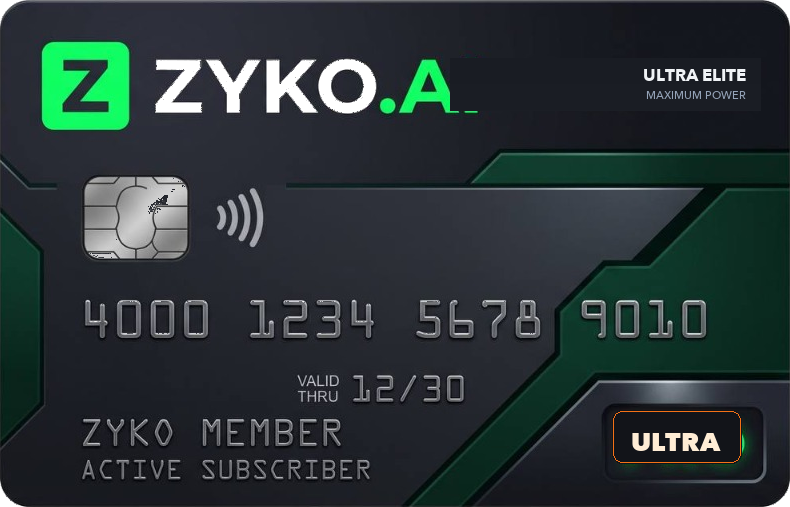
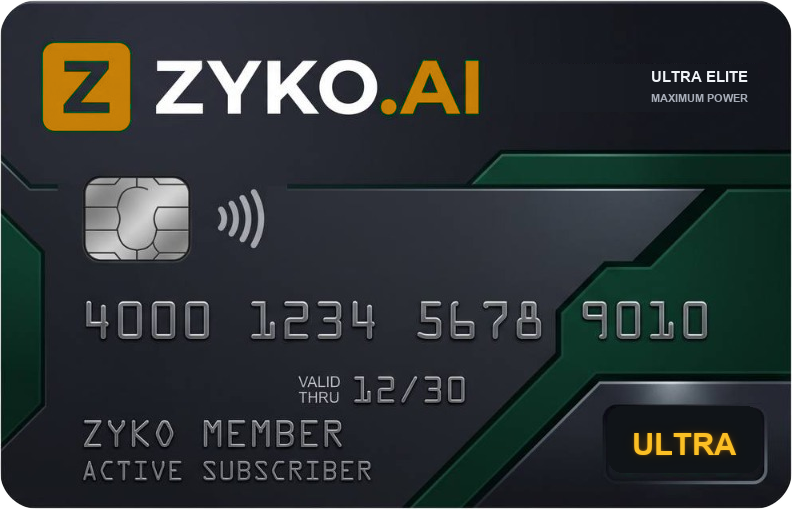
feat(stripe): add transparent cyberpunk virtual cards for all subscription tiers to Stripe Checkout

diff --git a/public/icons/plan_b_svgs.js b/public/icons/plan_b_svgs.js
@@ -1,0 +1,96 @@
+/**
+ * PLAN B: Premium Vector Duotone / Neon SVG Studio Icons (Linear / Vercel / Raycast style)
+ * Clean, lightweight, scalable, with emerald, amber, and violet gradients.
+ * Activated on user request "делай план б".
+ */
+const PLAN_B_STUDIO_ICONS = {
+  trends: `
+    <svg class="w-5 h-5" viewBox="0 0 24 24" fill="none">
+      <defs>
+        <linearGradient id="trend-grad" x1="0%" y1="0%" x2="100%" y2="100%">
+          <stop offset="0%" stop-color="#f59e0b"/>
+          <stop offset="100%" stop-color="#ef4444"/>
+        </linearGradient>
+      </defs>
+      <path d="M12 2c1.5 3.5 4 5.5 4 9 0 3.3-2.7 6-6 6s-6-2.7-6-6c0-3.5 2.5-5.5 4-9z" fill="url(#trend-grad)" fill-opacity="0.25" stroke="url(#trend-grad)" stroke-width="1.8" stroke-linecap="round" stroke-linejoin="round"/>
+      <path d="M12 11c.8 1.5 2 2.5 2 4a2 2 0 1 1-4 0c0-1.5 1.2-2.5 2-4z" fill="#f59e0b"/>
+    </svg>
+  `,
+  agents: `
+    <svg class="w-5 h-5" viewBox="0 0 24 24" fill="none">
+      <defs>
+        <linearGradient id="agent-grad" x1="0%" y1="0%" x2="100%" y2="100%">
+          <stop offset="0%" stop-color="#10b981"/>
+          <stop offset="100%" stop-color="#06b6d4"/>
+        </linearGradient>
+      </defs>
+      <circle cx="12" cy="12" r="8" stroke="url(#agent-grad)" stroke-width="1.8" stroke-dasharray="2 3"/>
+      <circle cx="12" cy="12" r="4" fill="url(#agent-grad)" fill-opacity="0.3" stroke="url(#agent-grad)" stroke-width="1.8"/>
+      <circle cx="12" cy="12" r="1.5" fill="#10b981"/>
+    </svg>
+  `,
+  text: `
+    <svg class="w-5 h-5" viewBox="0 0 24 24" fill="none">
+      <defs>
+        <linearGradient id="llm-grad" x1="0%" y1="0%" x2="100%" y2="100%">
+          <stop offset="0%" stop-color="#8b5cf6"/>
+          <stop offset="100%" stop-color="#3b82f6"/>
+        </linearGradient>
+      </defs>
+      <rect x="4" y="4" width="16" height="16" rx="4" stroke="url(#llm-grad)" stroke-width="1.8" fill="url(#llm-grad)" fill-opacity="0.2"/>
+      <path d="M9 9h6M9 12h6M9 15h3" stroke="#a78bfa" stroke-width="1.8" stroke-linecap="round"/>
+      <circle cx="17" cy="15" r="1" fill="#60a5fa"/>
+    </svg>
+  `,
+  image: `
+    <svg class="w-5 h-5" viewBox="0 0 24 24" fill="none">
+      <defs>
+        <linearGradient id="img-grad" x1="0%" y1="0%" x2="100%" y2="100%">
+          <stop offset="0%" stop-color="#06b6d4"/>
+          <stop offset="100%" stop-color="#10b981"/>
+        </linearGradient>
+      </defs>
+      <rect x="3" y="3" width="18" height="18" rx="4" stroke="url(#img-grad)" stroke-width="1.8" fill="url(#img-grad)" fill-opacity="0.15"/>
+      <circle cx="8.5" cy="8.5" r="2" fill="#06b6d4"/>
+      <path d="M21 16l-5.5-5.5-8.5 8.5" stroke="url(#img-grad)" stroke-width="1.8" stroke-linecap="round" stroke-linejoin="round"/>
+    </svg>
+  `,
+  video: `
+    <svg class="w-5 h-5" viewBox="0 0 24 24" fill="none">
+      <defs>
+        <linearGradient id="vid-grad" x1="0%" y1="0%" x2="100%" y2="100%">
+          <stop offset="0%" stop-color="#ec4899"/>
+          <stop offset="100%" stop-color="#8b5cf6"/>
+        </linearGradient>
+      </defs>
+      <rect x="3" y="4" width="18" height="16" rx="3" stroke="url(#vid-grad)" stroke-width="1.8" fill="url(#vid-grad)" fill-opacity="0.2"/>
+      <path d="M10 9l5 3-5 3V9z" fill="url(#vid-grad)"/>
+    </svg>
+  `,
+  audio: `
+    <svg class="w-5 h-5" viewBox="0 0 24 24" fill="none">
+      <defs>
+        <linearGradient id="aud-grad" x1="0%" y1="0%" x2="100%" y2="100%">
+          <stop offset="0%" stop-color="#10b981"/>
+          <stop offset="100%" stop-color="#34d399"/>
+        </linearGradient>
+      </defs>
+      <path d="M4 10v4M8 6v12M12 3v18M16 7v10M20 11v2" stroke="url(#aud-grad)" stroke-width="2" stroke-linecap="round"/>
+    </svg>
+  `,
+  toolkit: `
+    <svg class="w-5 h-5" viewBox="0 0 24 24" fill="none">
+      <defs>
+        <linearGradient id="tool-grad" x1="0%" y1="0%" x2="100%" y2="100%">
+          <stop offset="0%" stop-color="#f59e0b"/>
+          <stop offset="100%" stop-color="#10b981"/>
+        </linearGradient>
+      </defs>
+      <path d="M14.7 6.3a1 1 0 0 0 0 1.4l1.6 1.6a1 1 0 0 0 1.4 0l3.77-3.77a6 6 0 0 1-7.94 7.94l-6.91 6.91a2.12 2.12 0 0 1-3-3l6.91-6.91a6 6 0 0 1 7.94-7.94l-3.76 3.76z" stroke="url(#tool-grad)" stroke-width="1.8" stroke-linecap="round" stroke-linejoin="round" fill="url(#tool-grad)" fill-opacity="0.15"/>
+    </svg>
+  `
+};
+
+if (typeof window !== 'undefined') {
+  window.PLAN_B_STUDIO_ICONS = PLAN_B_STUDIO_ICONS;
+}

diff --git a/payments.py b/payments.py
@@ -96,6 +96,19 @@ async def create_stripe_checkout(user_id: int, user_email: str, plan_name: str, 
         }
 
     try:
+        plan_slug_map = {
+            "Basic": "basic",
+            "Pro": "pro",
+            "VIP": "vip",
+            "Elite": "elite",
+            "Ultra Elite": "ultra_elite"
+        }
+        card_slug = plan_slug_map.get(plan_name, "pro")
+        if origin_url and origin_url.startswith("https://") and "localhost" not in origin_url and "127.0.0.1" not in origin_url:
+            card_image_url = f"{origin_url}/cards/card_{card_slug}.png"
+        else:
+            card_image_url = f"https://raw.githubusercontent.com/a6dui/ZYKO-AI-WEB/main/public/cards/card_{card_slug}.png"
+
         session = stripe.checkout.Session.create(
             payment_method_types=["card"],
             line_items=[{
@@ -104,7 +117,7 @@ async def create_stripe_checkout(user_id: int, user_email: str, plan_name: str, 
                     "product_data": {
                         "name": f"ZYKO.AI Subscription: {plan_name}",
                         "description": f"{plan['tokens']} ZK Tokens + {plan['desc']}",
-                        "images": ["https://images.unsplash.com/photo-1618005182384-a83a8bd57fbe?w=400"]
+                        "images": [card_image_url]
                     },
                     "unit_amount": amount_cents,
                 },
